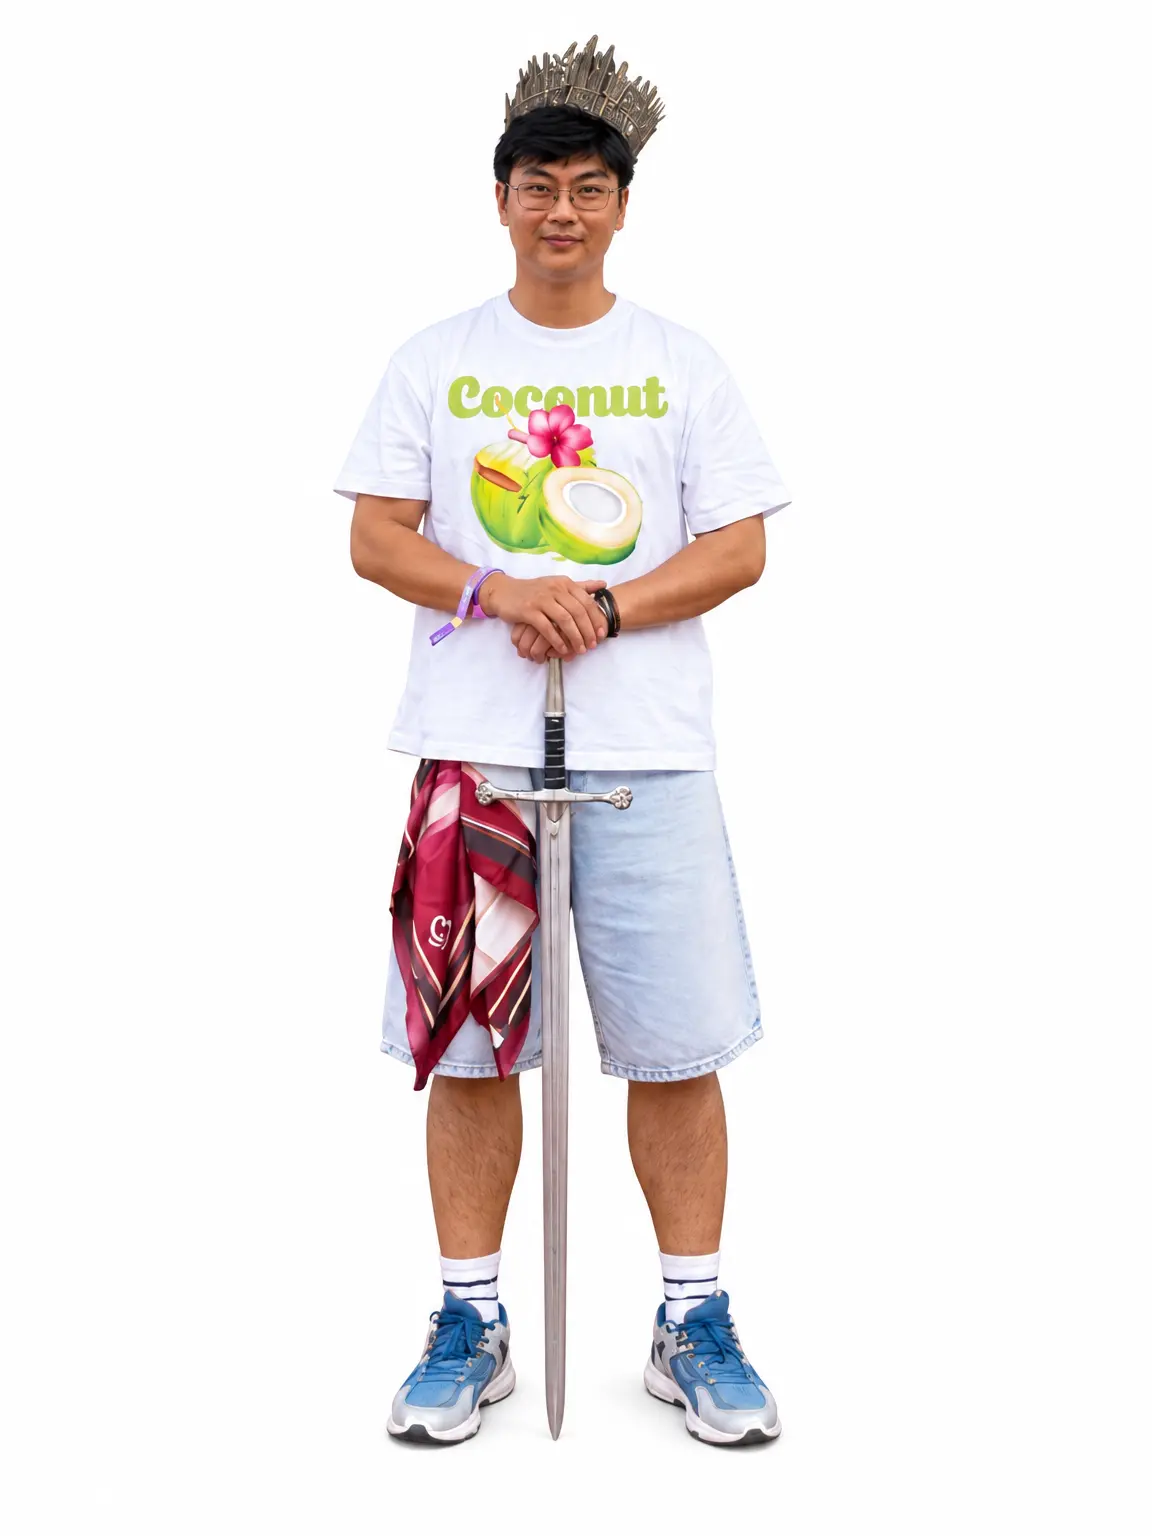
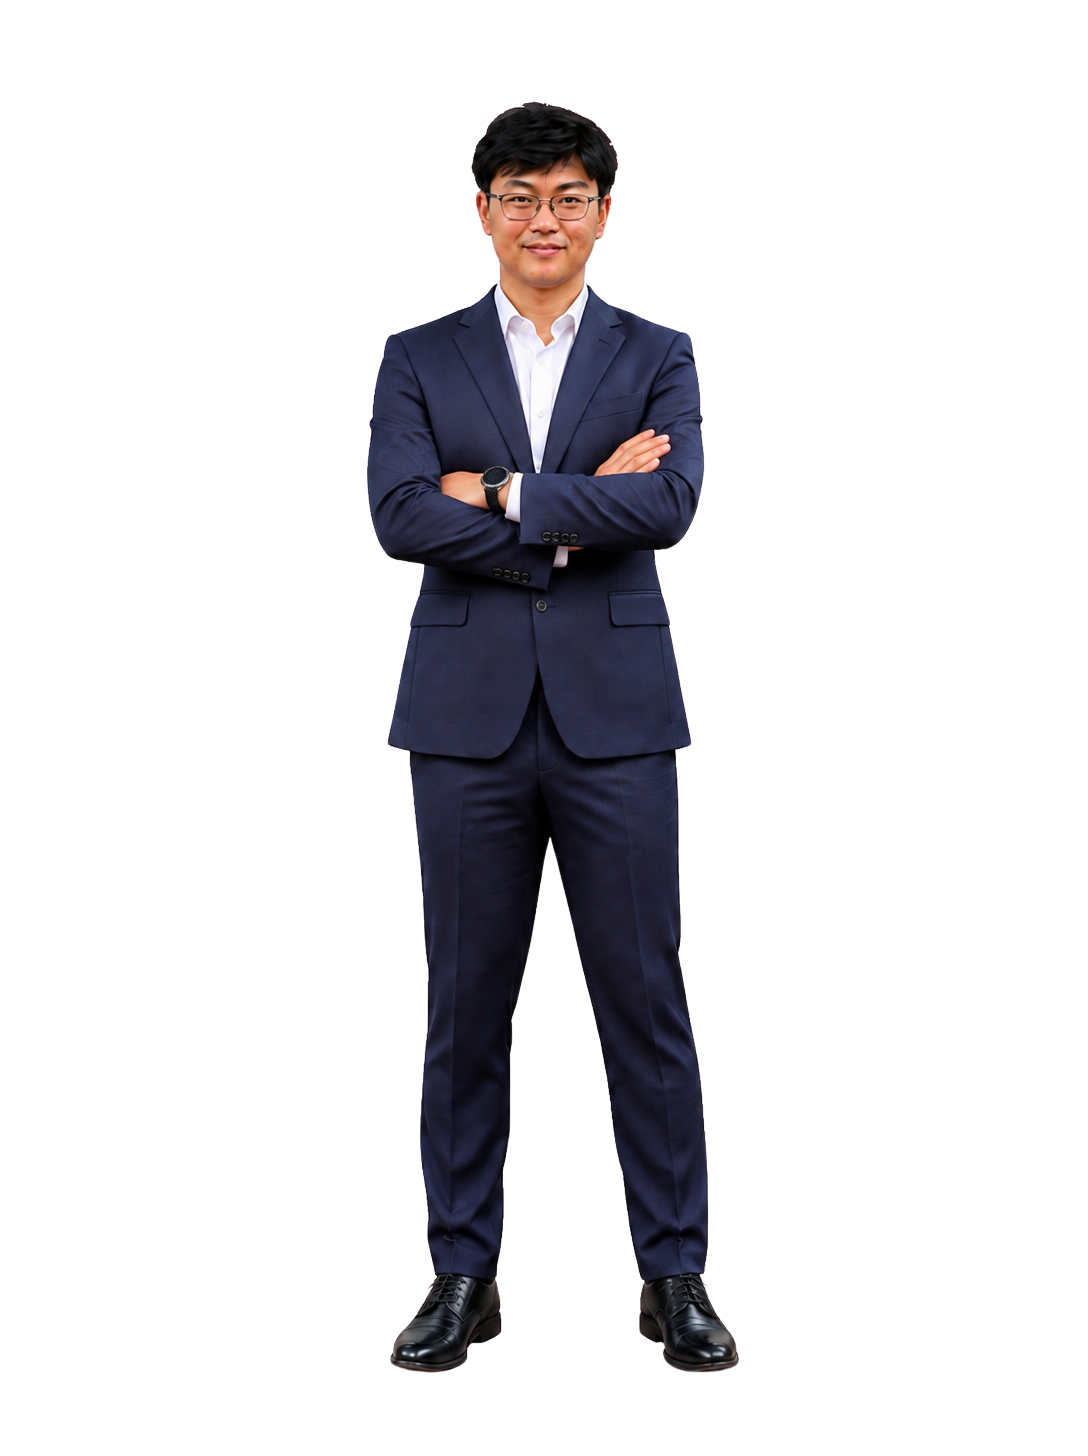
feat: update herro image

Changed region(s): [[0.2812, 0.0309, 0.6875, 0.9581]]

diff --git a/README.md b/README.md
@@ -87,3 +87,7 @@ npm run e2e
 
 See [architecture notes](ai-agent/docs/architecture.md) and
 [UI notes](ai-agent/docs/reference-ui.md) for more detail.
+
+
+## Portfolio:
+open: https://khuongnh-portfolio.vercel.app
